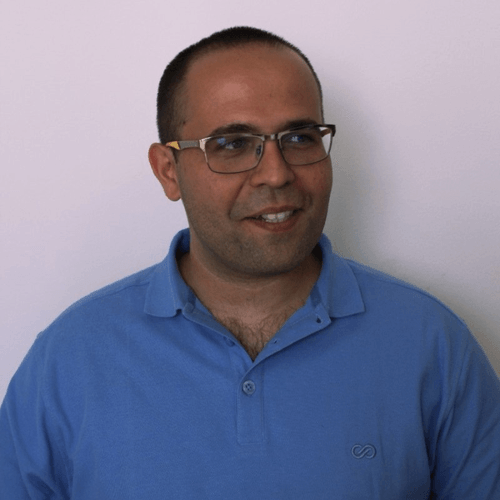
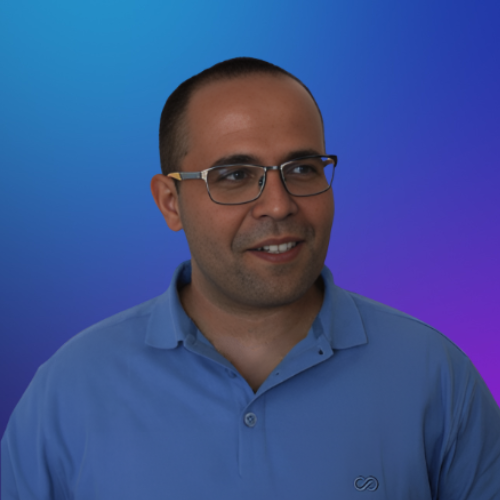
team image update

diff --git a/src/constants/index.ts b/src/constants/index.ts
@@ -5,9 +5,9 @@ import {
   avatar4,
   avatar5,
   team1,
+  team2,
   team3,
   team4,
-  team5,
   circle,
   shape,
 } from "@/assets/images";
@@ -136,7 +136,7 @@ export const team = [
     role: "Founder",
     about:
       "Blockchain Enthusiast with a unique blend of expertise in both marketing and technical aspects of the industry.",
-    img: team3,
+    img: team2,
     socials: [
       {
         logo: FaXTwitter,
@@ -154,7 +154,7 @@ export const team = [
     role: "Developer",
     about:
       "Skilled Frontend and Backend Ninja Developer, known for his exceptional coding prowess and versatility.",
-    img: team4,
+    img: team3,
     socials: [
       {
         logo: FaXTwitter,
@@ -176,7 +176,7 @@ export const team = [
     role: "Creator",
     about:
       "Her artistic vision and attention to detail ensure that our projects not only stand out but also resonate deeply with our audience.",
-    img: team5,
+    img: team4,
     socials: [
       {
         logo: FaXTwitter,

diff --git a/src/components/ui/faq.tsx b/src/components/ui/faq.tsx
@@ -14,7 +14,7 @@ export const Faq = () => {
         <h2 className="text-[2.5rem] leading-[3rem] text-center lg:text-[3rem] font-bold mb-[80px] lg:mb-[100px]">
           Frequently asked questions
         </h2>
-        <div className="flex flex-col items-center gap-10 lg:flex-row lg:gap-0">
+        <div className="flex flex-col items-center gap-10 lg:flex-row lg:gap-40">
           <div className="lg:flex-[50%]">
             <h4 className="mb-10 text-lg text-textColor hidden lg:block">
               Have a question that is not answered? <br /> You can contact us on
@@ -67,9 +67,9 @@ export const Faq = () => {
           </div>
           <div className="lg:flex-[50%]">
             <img
-              className="w-[300px] lg:w-[460px] h-auto mx-auto"
+              className="w-[300px] lg:w-[480px] h-auto mx-auto"
               src={faq}
-              alt=""
+              alt="faq illustration"
             />
           </div>
         </div>

diff --git a/src/components/carousel/Carousel.tsx b/src/components/carousel/Carousel.tsx
@@ -39,7 +39,7 @@ export const Carousel: React.FC<PropType> = (props) => {
                 <CardBody className="border bg-[rgba(255,255,255,0.05)] border-[rgba(255,255,255,.1)]  rounded-md p-6 w-[90%] md:w-full relative transition duration-300 hover:shadow-[0px_26px_46px_-35px_rgba(4,79,200,0.67)] hover:shadow-[0px 22px 37px -11px rgba(4,79,200,0.91)]">
                   <CardItem translateZ="60" className="w-full">
                     <img
-                      className="rounded-sm h-[300px] lg:h-[260px] w-full object-cover object-top"
+                      className="rounded-sm h-[300px] lg:h-[270px] w-full object-cover"
                       src={item.img}
                       alt={item.name}
                     />

diff --git a/src/assets/images/index.ts b/src/assets/images/index.ts
@@ -6,9 +6,9 @@ import avatar5 from "./avatar5.jpg";
 import logo from "./logo.svg";
 import about from "./about.svg";
 import team1 from "./team1.png";
+import team2 from "./team2.png";
 import team3 from "./team3.png";
 import team4 from "./team4.png";
-import team5 from "./team5.jpg";
 import faq from "./faq.svg";
 import adaLogo from "./ada_logo.svg";
 import circle from "./circle.png";
@@ -23,9 +23,9 @@ export {
   logo,
   about,
   team1,
+  team2,
   team3,
   team4,
-  team5,
   faq,
   adaLogo,
   circle,
